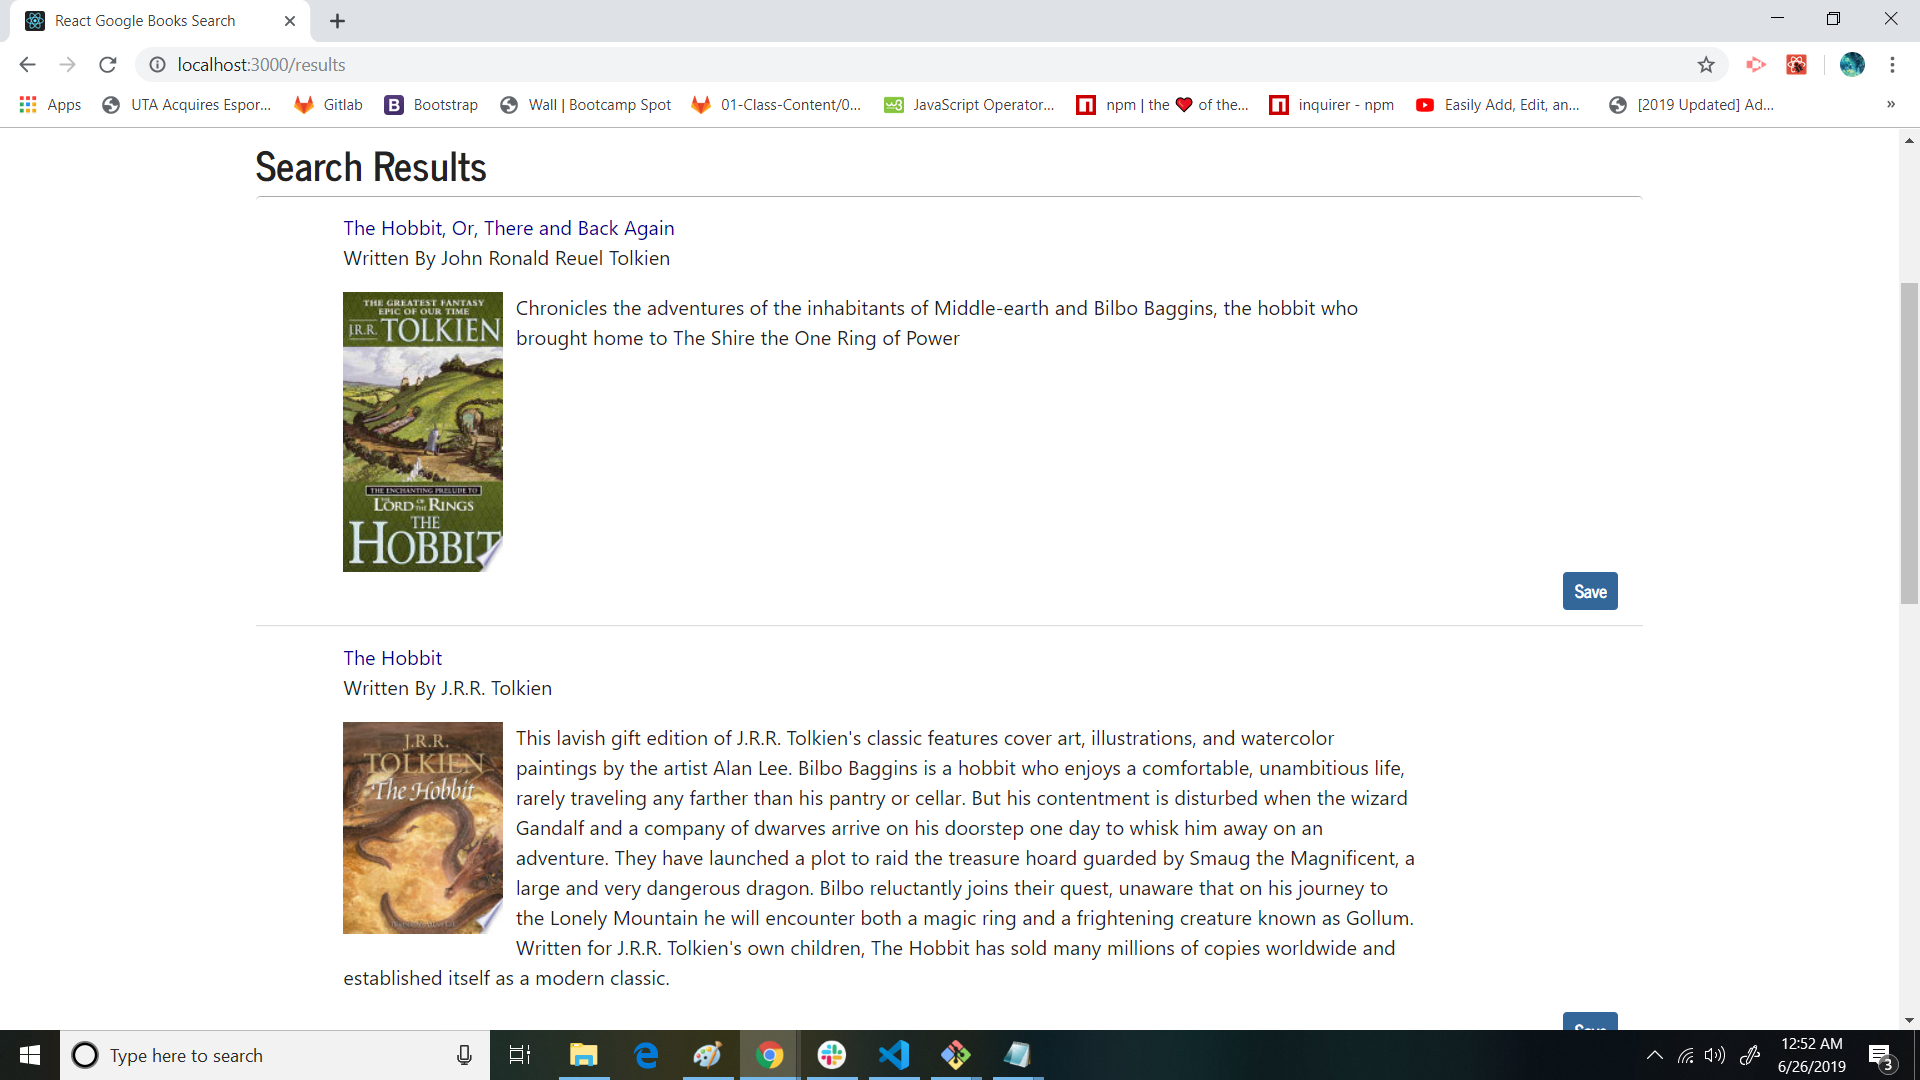
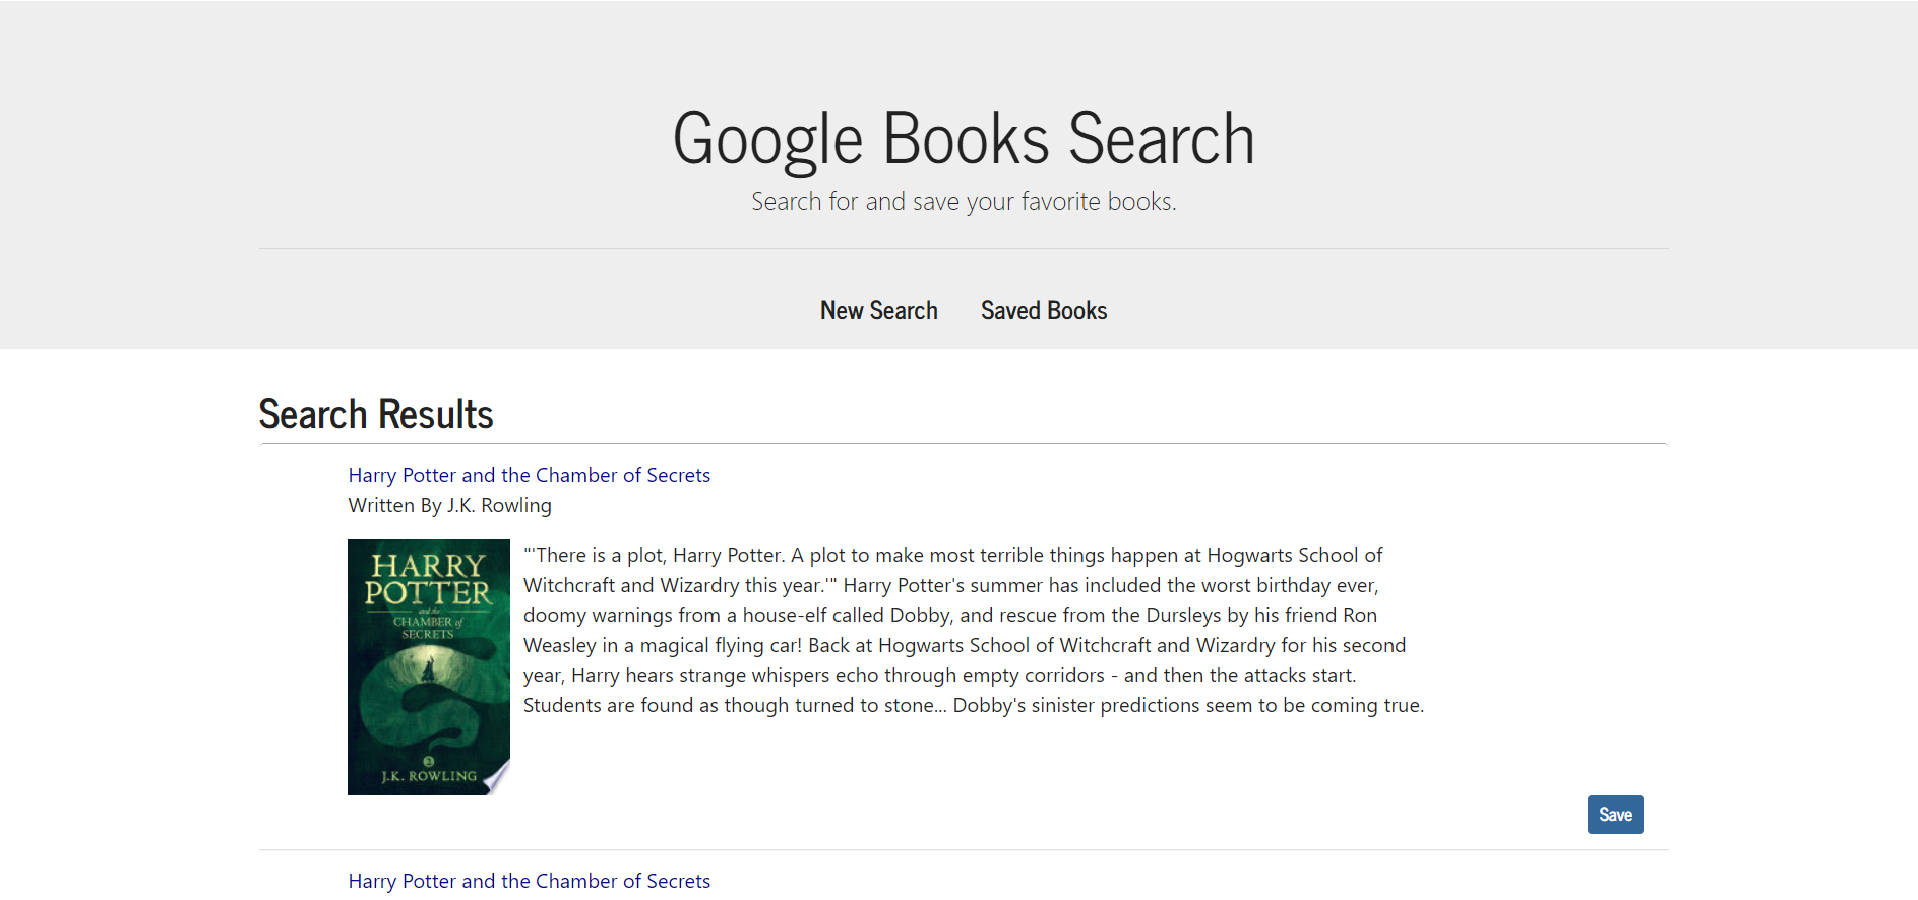
Updated Styling

diff --git a/Results/Results.js b/Results/Results.js
@@ -1,0 +1,120 @@
+import React, { Component } from "react";
+import { Link } from 'react-router-dom';
+import { Container } from "../../components/Grid";
+import { List, ListItem } from "../../components/List";
+import BookBtn from "../../components/BookBtn";
+import Jumbotron from "../../components/Jumbotron";
+import API from "../../utils/API";
+
+class Results extends Component {
+  state = {
+    books: [],
+    target: "",
+    noResults: false
+  };
+
+  componentDidMount() {
+    const data = this.props.location.data
+    if (data && data.results.length > 0) {
+
+      this.setState({
+        books: data.results.filter((value, index) => index < 5),
+        target: "_blank"
+      });
+    } else {
+      this.setState({
+        noResults: true
+      });
+    }
+  }
+
+  saveBook = book => {
+    API.saveBook(book)
+      .then(res => {
+        const currentBooks = this.state.books;
+        const filterBooks = currentBooks.filter(book => book.id !== res.data.id);
+        this.setState({
+          books: filterBooks
+        });
+      })
+      .catch(err => console.log(err));
+  }
+
+  render() {
+    if (this.state.noResults) {
+      return (
+        <div>
+          <Jumbotron>
+            <h1 className="display-4">Google Books Search</h1>
+            <p className="lead">Search for and save your favorite books.</p>
+            <hr className="my-4" />
+            <p className="lead">
+              <Link className="btn btn-default btn-lg" to="/" role="button">New Search</Link>
+              <Link className="btn btn-default btn-lg" to="/saved" role="button">Saved Books</Link>
+            </p>
+          </Jumbotron>
+          <Container>
+            <Link to="/">No results - click here to search again.</Link>
+          </Container>
+        </div>
+      )
+    }
+    return (
+      <div>
+        <Jumbotron>
+          <h1 className="display-4">Google Books Search</h1>
+          <p className="lead">Search for and save your favorite books.</p>
+          <hr className="my-4" />
+          <p className="lead">
+            <Link className="btn btn-default btn-lg" to="/" role="button">New Search</Link>
+            <Link className="btn btn-default btn-lg" to="/saved" role="button">Saved Books</Link>
+          </p>
+        </Jumbotron>
+        <Container>
+          <h2>Search Results</h2>
+          <List>
+            {this.state.books.map((book, index) => (
+              <ListItem key={book.id}>
+                <div className="date-div">
+                  <a
+                    key={"" + index + book.id}
+                    href={book.volumeInfo.infoLink}
+                    target={this.state.target}
+                  >
+                    {book.volumeInfo.title}
+                  </a>
+                    <p>Written By {book.volumeInfo.authors[0]}</p>
+                  <p>
+                  <img align="left" style={{paddingRight:10}}
+                    src={book.volumeInfo.imageLinks.smallThumbnail} alt="new"
+                  />
+                    {book.volumeInfo.description}
+                  </p>
+                </div>
+                <div className="book-btn-div">
+                  <BookBtn
+                    key={"" + book.id + index}
+                    btntype="info"
+                    disabled={book.volumeInfo.infoLink === "/"}
+                    onClick={() => this.saveBook({
+                      title: book.volumeInfo.title,
+                      author: book.volumeInfo.authors[0],
+                      description: book.volumeInfo.description,
+                      image: book.volumeInfo.imageLinks.smallThumbnail,
+                      link: book.volumeInfo.infoLink,
+                      _id: book.id
+                    })}
+                  >
+                    Save
+                  </BookBtn>
+                </div>
+              </ListItem>
+            ))}
+          </List>
+        </Container>
+      </div>
+    );
+  }
+}
+
+export default Results;

diff --git a/Saved/Saved.js b/Saved/Saved.js
@@ -1,0 +1,115 @@
+import React, { Component } from "react";
+import { Link } from "react-router-dom";
+import { Container } from "../../components/Grid";
+import { List, ListItem } from "../../components/List";
+import Jumbotron from "../../components/Jumbotron";
+import API from "../../utils/API";
+import BookBtn from "../../components/BookBtn";
+
+class Saved extends Component {
+  state = {
+    books: [],
+    target: "",
+    noResults: false
+  };
+
+  componentDidMount() {
+    this.getSavedBooks();
+  }
+
+  getSavedBooks = () => {
+    API.getSavedBooks()
+      .then(res => {
+        if (res.data.length > 0) {
+          this.setState({
+            books: res.data,
+            target: "_blank"
+          });
+        } else {
+          this.setState({
+            noResults: true
+          });
+        }
+
+      })
+      .catch(err => console.log(err));
+  }
+
+  deleteBook = id => {
+    API.deleteBook(id)
+      .then(res => this.getSavedBooks())
+      .catch(err => console.log(err));
+  }
+
+  render() {
+    if (this.state.noResults) {
+      return (
+        <div>
+          <Jumbotron>
+            <h1 className="display-4">Google Books Search</h1>
+            <p className="lead">Search for and save your favorite books.</p>
+            <hr className="my-4" />
+            <p className="lead">
+              <Link className="btn btn-default btn-lg" to="/" role="button">New Search</Link>
+              <Link className="btn btn-default btn-lg" to="/saved" role="button">Saved Books</Link>
+            </p>
+          </Jumbotron>
+          <Container>
+            <Link to="/">You have no saved books. Click here to find some.</Link>
+          </Container>
+        </div>
+      )
+    }
+    return (
+      <div>
+        <Jumbotron>
+          <h1 className="display-4">Google Books Search</h1>
+          <p className="lead">Search for and save your favorite books.</p>
+          <hr className="my-4" />
+          <p className="lead">
+            <Link className="btn btn-default btn-lg" to="/" role="button">New Search</Link>
+            <Link className="btn btn-default btn-lg" to="/saved" role="button">Saved Books</Link>
+          </p>
+        </Jumbotron>
+        <Container>
+          <h2>Saved Books</h2>
+          <List>
+            {this.state.books.map(book => (
+              <ListItem key={book._id}>
+                <div className="date-div">
+                  <a
+                    key={book._id + "link"}
+                    href={book.link}
+                    target={this.state.target}
+                  >
+                    {book.title}
+                  </a>
+                  <p>Written By {book.author}</p>
+                  <p>
+                  <img align="left" style={{paddingRight:10}}
+                    src={book.image} alt="new"
+                  />
+                    {book.description}
+                  </p>
+                </div>
+                <div className="book-btn-div">
+                  <BookBtn
+                    key={book._id + "btn"}
+                    btntype="info"
+                    id={book._id}
+                    disabled={book.link === "/"}
+                    onClick={() => this.deleteBook(book._id)}
+                  >
+                    Delete
+                </BookBtn>
+                </div>
+              </ListItem>
+            ))}
+          </List>
+        </Container>
+      </div>
+    );
+  }
+}
+
+export default Saved;

diff --git a/Search/Search.js b/Search/Search.js
@@ -1,0 +1,82 @@
+import React, { Component } from "react";
+import { Link, Redirect } from "react-router-dom";
+import Jumbotron from "../../components/Jumbotron";
+import API from "../../utils/API";
+import { Container } from "../../components/Grid";
+import { Input, FormBtn } from "../../components/Form";
+
+class Search extends Component {
+  state = {
+    title: "",
+    toResults: false,
+    results: []
+  };
+
+  handleInputChange = event => {
+    const { name, value } = event.target;
+    this.setState({
+      [name]: value
+    });
+  };
+
+  handleFormSubmit = event => {
+    event.preventDefault();
+    if (this.state.title) {
+
+      const title = this.state.title.trim();
+
+      API.getNewBooks(title)
+        .then(res => {
+
+          console.log(res.data.items);
+
+          this.setState({
+            toResults: true,
+            results: res.data.items
+          });
+        })
+        .catch(err => console.log(err));
+    }
+  };
+
+  render() {
+    if (this.state.toResults) {
+      return <Redirect to={{
+        pathname: "/results",
+        data: { results: this.state.results }
+      }} />
+    }
+    return (
+      <div>
+        <Jumbotron>
+          <h1 className="display-4">Google Books Search</h1>
+          <p className="lead">Search for and save your favorite books.</p>
+          <hr className="my-4" />
+          <p className="lead">
+            <Link className="btn btn-default btn-lg" to="/" role="button">New Search</Link>
+            <Link className="btn btn-default btn-lg" to="/saved" role="button">Saved Books</Link>
+          </p>
+        </Jumbotron>
+        <Container>
+          <form>
+            <Input
+              value={this.state.title}
+              onChange={this.handleInputChange}
+              name="title"
+              label="Book Title"
+              placeholder="Search Book Title (required)"
+            />
+            <FormBtn         
+              onClick={this.handleFormSubmit}
+              className="btn btn-info"
+            >
+              Search
+            </FormBtn>
+          </form>
+        </Container>
+      </div>
+    );
+  }
+}
+
+export default Search;

diff --git a/Results/index.js b/Results/index.js
@@ -1,0 +1,1 @@
+export { default } from "./Results.js";

diff --git a/Search/index.js b/Search/index.js
@@ -1,0 +1,1 @@
+export { default } from "./Search.js";

diff --git a/Saved/index.js b/Saved/index.js
@@ -1,0 +1,1 @@
+export { default } from "./Saved.js";
